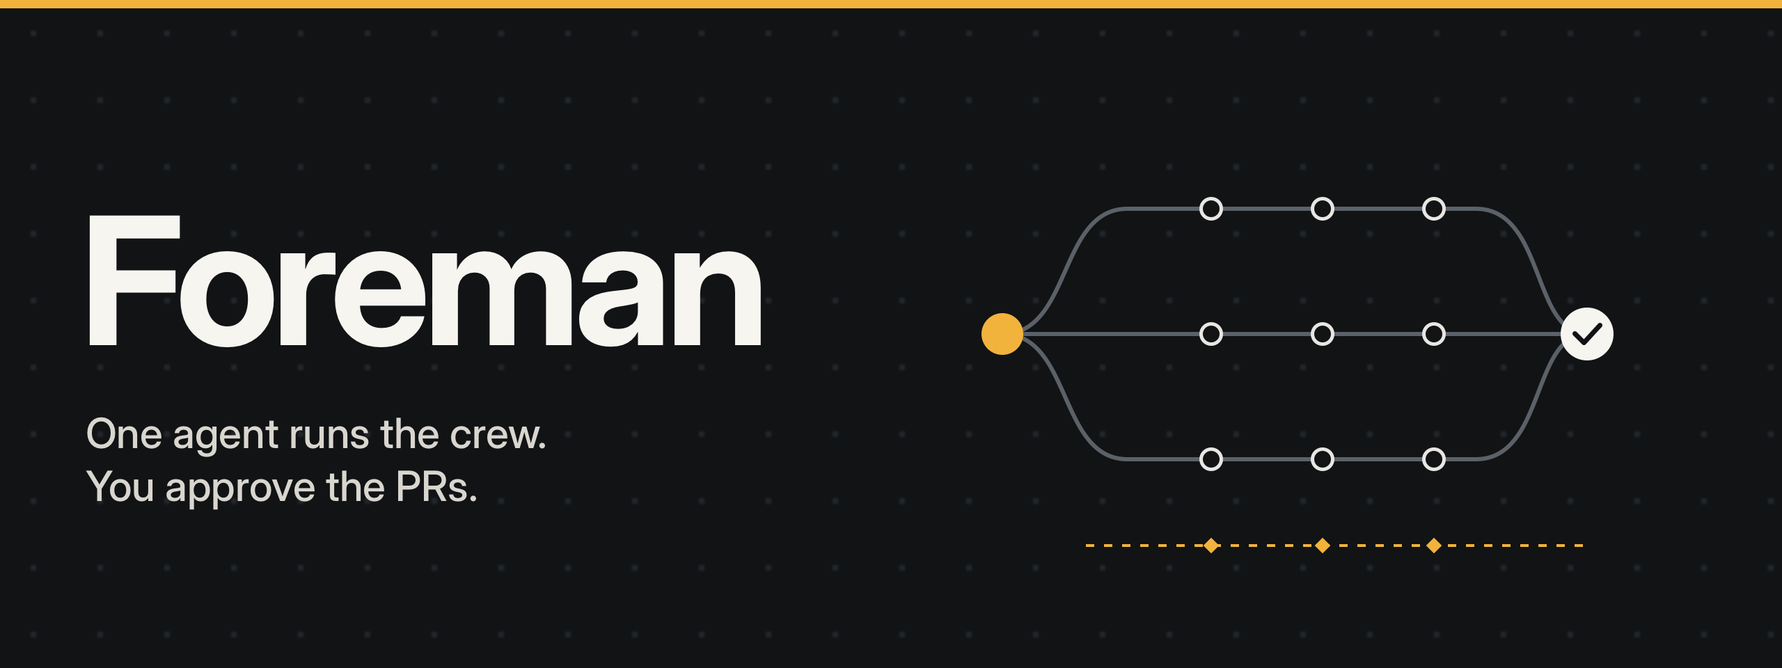
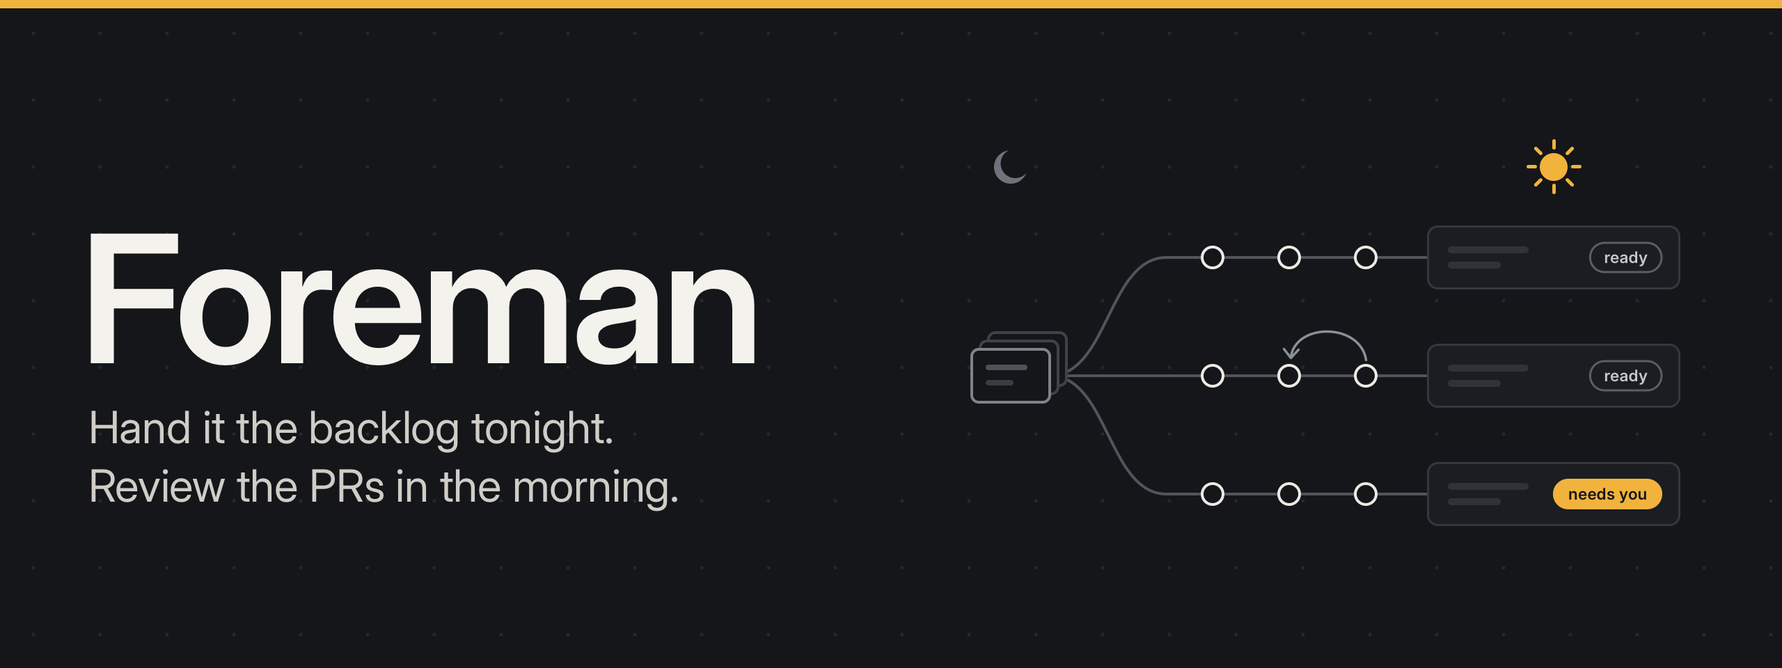
docs: rewrite README around unattended work and review (#98)

diff --git a/README.md b/README.md
@@ -5,88 +5,106 @@
     </picture>
 </p>
 
-## :sparkles: Features
+Hand it the backlog tonight. Review the PRs in the morning.
 
-- :robot: Spin up multiple Claude Code agents in parallel, reporting to the Foreman orchestrator
-- :zap: Blazingly fast, because each worker runs in its own worktree and tab
-- :policeman: Keeps every worker to your rules and puts you in ultimate control
-- :money_with_wings: Runs simple tasks on cheaper models
-- :zzz: Keeps working while you're away, and logs every call it makes
-- :books: Reads your repo's ADRs and keeps every worker to them
-- :camera: Takes before and after screenshots of web and macOS apps
-- :link: Tests the open PRs merged together, to catch ones that pass alone but break together
-- :memo: Runs your tests on the base branch first, and warns every worker about what already fails
-- :hammer_and_wrench: Builds, reviews and opens PRs by your own skills
-- :clipboard: Writes a summary of the PRs to review, in order
+<img alt="foreman overview" src="assets/README/foreman-overview.png">
+
+Wake up to PRs in review order, with test steps, risk ratings and a record of what still needs you.
+
+Foreman is a CLI and a Claude Code plugin whose orchestrator turns your backlog into a plan. It runs workers in their own git worktrees and sends their changes to a separate reviewer. You get PRs with a summary that tells you which to review first.
+
+```text
+Here's my backlog: BACKLOG.md. The deadline is tomorrow. Do it as cheaply as you can.
+```
 
 ## :firecracker: The problem
 
-You've got a backlog and a deadline. One Claude Code session processes one task at a time, and every task waits on you to review the last.
+Open five Claude Code sessions and you still have to review five PRs. Which one goes first? What did each worker assume? Do the changes work together? Congratulations - you've become the bottleneck.
 
-_Sure_, you could open five Claude Code sessions. But, then you're the one splitting up and assigning the work. Trying to ensure each session keeps out of the way of the other. Sharing "gotchas" and decisions between sessions. Checking every result and untangling the merge conflicts. **Congratulations - you've become the bottleneck**.
+## :sparkles: Features
 
-Foreman brings in the team and the manager to run it. You bring the direction and the control.
+### It runs while you're away
 
-## :construction_worker: What is Foreman?
+- :money_with_wings: Stops workers that exceed task or plan budgets.
+- :zzz: Restarts hung workers.
+- :repeat: Waits out usage limits, then resumes work.
+- :hourglass_flowing_sand: Makes routine decisions when you don't answer.
+- :speech_balloon: Pings you on Telegram when you choose.
 
-Foreman is a CLI and a Claude Code plugin. `foreman up` starts Claude Code with the plugin loaded, and that session runs the team:
+### The work arrives ready to review
 
-- **The engineers** are worker sessions, numbered W1, W2 and so on. Each gets its own git worktree and tab, so they work in parallel without stepping on each other
-- **The manager** is the orchestrator. It never writes code. It plans, hands out work, keeps everyone aligned and checks the work before it reaches you
-- **The leader** is you. You set the direction and approve every PR
+- :clipboard: Reviews each task and rates its risk before opening a PR.
+- :camera: Captures before and after screenshots of web and macOS apps.
+- :test_tube: Finds failing and flaky tests on the base branch.
+- :link: Tests open PRs together for conflicts and failing tests.
+- :memo: Lists PRs in review order, with test steps and assumptions.
 
-### How it works
+### It stays inside your rules
 
-<p align="center">
-    <picture>
-        <source media="(prefers-color-scheme: dark)" srcset="assets/how-it-works-dark.svg">
-        <img alt="How Foreman works: you hand over a backlog, Foreman briefs workers, a reviewer checks their work, approved work becomes a PR you merge, and merging starts the next tasks" src="assets/how-it-works-light.svg">
-    </picture>
-</p>
+- :policeman: Checks each change against your `never` list.
+- :lock: Blocks edit tools outside each task's owned paths.
+- :robot: Keeps planning with the orchestrator and coding with workers.
+- :books: Gives workers your ADRs and accepted decisions.
+- :hammer_and_wrench: Uses your skills to build, review and document work.
+- :raised_hand: Leaves merging to you unless you enable automerge.
 
-1. **Give it a backlog.** Foreman talks it through with you, then turns each item into a brief with clear boundaries and finished criteria
-2. **It schedules the crew.** Foreman decides what work runs in parallel and what goes first, based on dependencies and your deadline
-3. **Decisions are shared.** Workers propose decisions. Foreman accepts them and tells the rest of the crew, so conflicts surface before merge time
-4. **Work gets reviewed.** A separate reviewer task checks each change against your intent, with screenshots for UI work, and sends it back to the workers until it's right
-5. **You approve the PR.** Each PR says what was asked, which decisions it touched, what changed on screen and how risky it is. Tasks that build on it start without waiting for the merge
+[What Foreman guarantees](#what-foreman-guarantees)
 
-### What it touches
+## How is this different?
 
-- Workers run in Claude Code's auto mode, each in a worktree under `.foreman/worktrees/`, and commit to their own `foreman/<task>` branch
-- The reviewer task can only read files
-- The orchestrator and workers talk to Foreman through its MCP server, which never runs in your Claude Code sessions
-- Foreman pushes each approved task's branch and opens its PR
-- Foreman also makes PRs that adds accepted decisions to your ADR folder
-- Foreman never merges unless you turn on [automerge](#auto-merging-prs) and merges its own PRs
-- It keeps its state in `.foreman/`, out of git, and picks up from there after a restart
+| Approach | What YOU do | What Foreman does |
+| --- | --- | --- |
+| Several Claude Code sessions by hand | Assign the work, then review five unsorted PRs | The orchestrator plans the tasks. The summary puts their PRs in review order |
+| Sharing gotchas between sessions | Copy each workaround into every tab, then remember it for the next session | A worker records a gotcha once. Foreman tells running workers and adds it to new briefs |
+| Parallel sessions you supervise | Watch the tabs, notice stuck work and ask for fixes | Foreman detects hung workers. A separate reviewer sends changes back to the worker before a PR opens |
+| Agent teams inside one session | Collect the agents' changes and decide what to test and merge | Each task gets its own worktree and review. Its PR includes test steps, assumptions and a risk rating |
 
-### Why not Claude Code's agent teams?
+The reviewer can send work back for two revision rounds. If it still needs changes, the orchestrator asks you how to proceed.
 
-Agent teams are great for research and review inside one session. Foreman is built for unattended builds that end in PRs, so it needs things teams doesn't offer:
+## How Foreman works
 
-- Each worker gets its own worktree, so workers never share a checkout
-- Every task has its own budget, and a hung worker is spotted and restarted
+Workers commit to `foreman/<task>` branches in worktrees under `.foreman/worktrees/`. Foreman pushes approved task branches and opens their PRs. It also opens a separate PR to add accepted decisions to your ADR folder.
+
+Foreman keeps its state in `.foreman/`, outside git, so it can pick up after a restart. You merge the PRs unless you turn on [automerge](#auto-merging-prs).
+
+## What Foreman guarantees
+
+### Enforced in code
+
+- Worker edit tools are limited to owned paths and temp folders
+- Orchestrator edit tools are limited to Foreman's state, excluding worktrees
+- The reviewer is read-only and must approve before Foreman pushes or opens a task PR
+- Automerge follows the [merge rules](#auto-merging-prs)
+- While running, the watch task enforces budgets, restarts hung workers and handles usage limits
+- Cleanup refuses unmerged or uncommitted work unless told to discard it
+
+### Asked of the agents
+
+- The orchestrator never writes code. Its Bash writes are not checked
+- Workers stay within their brief and owned paths. Bash checks cannot catch every file a program writes, or pushes and merges hidden in scripts
+- Agents follow your `never` list and ADRs. The reviewer's verdict and risk rating depend on the model's judgment
+- Raising budgets, discarding work and permission to merge still need your say-so
 
 ## :package: Install
+
+Foreman runs on macOS in Ghostty, Orca, Herdr or Rex. You need:
+
+- Claude Code 2.1.331 or later
+- [GitHub CLI](https://cli.github.com/) signed in with `gh auth login`
 
 ```sh
 brew install olimorris/tap/foreman
 ```
 
-and upgrade with:
+To upgrade:
 
 ```sh
 brew upgrade foreman
 ```
 
-Foreman runs on macOS inside a terminal app. You also need:
+For web screenshots, install Playwright's Chromium with `bunx playwright install chromium`. For macOS screenshots, install Xcode and grant your terminal Screen Recording permission in System Settings > Privacy & Security > Screen & System Audio Recording.
 
-- Claude Code 2.1.332 or later
-- [GitHub CLI](https://cli.github.com/) signed in with `gh auth login`
-- For web screenshots: Playwright's Chromium (`bunx playwright install chromium`)
-- For macOS screenshots: Xcode, and Screen Recording permission for your terminal in System Settings > Privacy & Security > Screen & System Audio Recording
-
-`foreman doctor` checks that all dependencies are installed and can be accessed.
+Run `foreman doctor` to check dependencies, terminal support and screenshot setup.
 
 ### Uninstall
 
@@ -94,20 +112,22 @@ Foreman runs on macOS inside a terminal app. You also need:
 brew uninstall foreman
 ```
 
-To remove the command and the plugin. Foreman also leaves worktrees, branches and its `.foreman/` folder in each repo it ran in. Before you uninstall, run this in each of those repos:
+This removes the command and plugin. Worktrees, branches and the `.foreman/` folder remain in each repo where Foreman ran. To clean those up, run this in each repo before uninstalling:
 
 ```sh
 foreman remove
 ```
 
-It closes any worker tabs still open, then removes every task's worktree, the `.foreman/` folder, the local `foreman/*` branches and the `.foreman/` line Foreman added to `.git/info/exclude`. It won't run while the orchestrator is running for the repo. It also won't run while a task has unmerged commits or uncommitted files, and it names those tasks. Run `foreman remove --discard` to lose that work. Branches Foreman pushed and its PRs stay on GitHub, so close or delete those there.
+It closes any open worker tabs, then removes every task's worktree, the `.foreman/` folder, the local `foreman/*` branches and the `.foreman/` line Foreman added to `.git/info/exclude`.
+
+The command refuses to run while the repo's orchestrator is running or any task has unmerged commits or uncommitted files. It names the tasks with work to keep. Run `foreman remove --discard` to discard that work. Pushed branches and PRs stay on GitHub; close or delete them there.
 
 ### Working with an agent
 
 Paste this to your coding agent, so it can answer questions about Foreman and help you set it up:
 
 ```text
-Read https://raw.githubusercontent.com/olimorris/foreman/main/docs/agents.md and help me with Foreman.
+Read https://raw.githubusercontent.com/olimorris/foreman/main/docs/agents.md and help me with Foreman
 ```
 
 ## :rocket: Usage
@@ -118,15 +138,11 @@ In your repo, start Foreman with:
 foreman up
 ```
 
-If you've run it in this repo before, the orchestrator carries on its last conversation, so you can exit and come back without losing it. `foreman up --new` starts a new conversation instead.
+The orchestrator resumes its last conversation in this repo. Use `foreman up --new` to start a new one.
 
-Then tell it what you want done:
+Give the orchestrator your backlog and deadline. It will ask about choices that change the work and writes a plan. A plan with one task per backlog item, no cuts and no open decisions can start straight away. Otherwise, it waits for your approval. `foreman help` lists the commands.
 
-```text
-Here's my backlog: BACKLOG.md. The deadline is tomorrow. Do it as cheaply as you can.
-```
-
-Foreman asks about anything unclear, plans the work and opens a PR for each approved task. `foreman help` lists every command.
+Tasks with one unmerged dependency can start on top of its approved, open PR. Set `stackTasks` to `false` if you want them to wait for the merge.
 
 ### Status
 
@@ -144,7 +160,7 @@ foreman budget
 
 <img alt="foreman budget" src="assets/README/foreman-budget.png">
 
-Each task can spend $5 and the plan $40. When a task goes over, Foreman stops its worker and asks whether to raise the limit.
+The default budget is $5 per task and $40 for the plan. While the watch task runs, Foreman stops a worker that exceeds its task budget. Exceeding the plan budget stops all running workers. The orchestrator asks you before raising either limit.
 
 | Command | What it does |
 | --- | --- |
@@ -155,17 +171,17 @@ Each task can spend $5 and the plan $40. When a task goes over, Foreman stops it
 | `foreman budget reset` | Starts the plan's count again at $0 |
 | `foreman cost` | Splits spend into workers and reviews |
 
-The plan's spend counts its tasks and the orchestrator from when you approved it.
+The plan's spend includes its tasks and the orchestrator, counted from when you approved the plan.
 
-On a Pro, Max or other Claude subscription, these amounts measure work done at list prices, not what you pay. Your usage limit is what stops work. When you hit it, Foreman pauses every worker, starts nothing new and holds reviews until the limit resets. Then it picks each worker up where it left off. `foreman status` shows when the limit resets.
+On a Claude subscription, the budget tracks work at list prices rather than your subscription bill. Budget limits still apply. When the account hits its usage limit, Foreman pauses running workers and holds new tasks and reviews until the reset. It then resumes the paused workers. `foreman status` shows the reset time, or the next retry time if Foreman couldn't read it.
 
 ### Permissions
 
-Workers run in auto mode by default, so Claude Code _may_ refuse a call or wait at a permission prompt in a worker's tab. The same can happen to the reviewer and the orchestrator. The orchestrator tells you in one line, like:
+Workers run in Claude Code's auto mode. A permission refusal or prompt can still interrupt a run. The reviewer and orchestrator can also be blocked.
 
-> _"W2 on T5 was blocked from running `gh pr merge 41` by auto mode. To allow it, add `Bash(gh pr merge *)` in /permissions in that worker's tab, or tell me to skip it."_
+The orchestrator names the session, the blocked call and the permission rule to add. Use `/permissions` in that session's tab, or tell the orchestrator to skip the step. `foreman status` and the status pane show open blocks under "Needs you". A worker waiting at a permission prompt is not treated as hung.
 
-`foreman status` and the status pane list the task under "Needs you". Once you allow or skip it, the orchestrator tells the worker and the task moves back. A worker waiting at a prompt is never treated as hung, and answering the prompt in its tab clears it.
+Allowing `Bash(gh pr merge *)` cannot override Foreman's block on a worker's `gh pr merge 41` call. Use automerge or merge the PR yourself.
 
 ### Workers
 
@@ -173,7 +189,9 @@ Workers run in auto mode by default, so Claude Code _may_ refuse a call or wait 
 foreman workers 5
 ```
 
-Runs up to 5 workers at once until the current plan finishes. The next plan goes back to `maxWorkers` from [Configuration](#gear-configuration). Lowering it never stops a running worker, and new tasks wait until fewer are running. After raising it, ask the orchestrator to start the tasks that were waiting. `foreman workers` on its own shows the limit and where it comes from.
+This allows up to 5 workers for the current plan. The next plan uses `maxWorkers` from [Configuration](#gear-configuration).
+
+Lowering the limit lets running workers finish; new tasks wait until there's room. After raising it, ask the orchestrator to start the waiting tasks. `foreman workers` on its own shows the limit and where it comes from.
 
 ### Auto-merging PRs
 
@@ -181,9 +199,21 @@ Runs up to 5 workers at once until the current plan finishes. The next plan goes
 foreman automerge on
 ```
 
-Foreman merges each task's PR itself once the reviewer approves it and every check passes on GitHub. A PR with no checks merges once it's approved. When a check fails, Foreman doesn't merge and sends the worker to fix it. You can also tell the orchestrator _"feel free to merge"_.
+Automerge applies to the current plan. You can also tell the orchestrator "feel free to merge". Foreman merges approved task PRs when their GitHub checks allow it. Pending or failing checks hold the merge. The orchestrator sends failures back to the worker unless they also fail on the base branch.
 
-Foreman only merges its own task PRs, from `foreman/<task>` branches. Release PRs, the decisions PR and your own PRs stay with you. Your `never` list still applies. The reviewer won't approve a PR that a rule about merging covers, such as "Merge a PR that changes a migration", and switching automerge on lists those rules. A PR built on another task's branch waits until that task merges. Merges use squash when the repo allows it. `foreman automerge off` hands merging back to you, and `foreman status` shows when it's on.
+You need to merge these PRs yourself. The orchestrator flags each one once:
+
+- A PR with no checks, unless `automerge.allowNoChecks` is on
+- A PR the reviewer rated above `automerge.maxRisk`, which is low unless you change it. It shows under "Ready to merge" in `foreman status` and the status pane
+- A PR that changes a file matching `protect`. Workers can still edit those files
+
+`foreman automerge on` lists the risk limit and any protected paths. It also tells you when `allowNoChecks` is on.
+
+Foreman only merges its own task PRs, from `foreman/<task>` branches. Release PRs, the decisions PR and your own PRs stay with you.
+
+The reviewer is instructed to reject a PR covered by a `never` rule about merging, such as "Merge a PR that changes a migration". Switching automerge on lists those rules.
+
+A PR built on another task's branch waits until that task merges. Foreman uses squash merges when the repo allows them. `foreman automerge off` hands merging back to you, and `foreman status` shows when it's on.
 
 ### Summary
 
@@ -191,9 +221,7 @@ Foreman only merges its own task PRs, from `foreman/<task>` branches. Release PR
 foreman summary
 ```
 
-<img alt="foreman summary" src="assets/README/foreman-summary.png">
-
-What got done, the order to review the PRs in and how to test each one, what didn't get finished, and the calls Foreman made for you.
+This writes `.foreman/summary.md` and displays it. The summary lists PRs in review order, test steps and risk ratings. It also records unfinished work, open questions and decisions Foreman made for you.
 
 ### Timeline
 
@@ -203,7 +231,7 @@ foreman timeline
 
 <img alt="foreman timeline" src="assets/README/foreman-timeline.png">
 
-When each task started, when its worker went quiet, and which tasks waited on it.
+The timeline shows when each task started, when its worker went quiet and which tasks waited on it.
 
 ### Status pane
 
@@ -213,19 +241,42 @@ foreman pane
 
 <img alt="foreman pane" src="assets/README/foreman-pane.png">
 
-A status pane beside the orchestrator shows the run at a glance:
+A pane beside the orchestrator shows the run's status:
 
-- **Needs you**: questions waiting on you, tasks that are blocked or stopped, and sessions a permission has blocked
+- **Needs you**: unanswered questions, blocked or stopped tasks, and sessions waiting for permission
 - **Working**: what each worker is doing right now, and for how long
 - **Ready to merge**: PRs waiting for you, with the reviewer's risk
-- **Up next**: planned tasks that haven't started, in the order they'll start, each with what it waits on. In a short pane it shows the ones that fit and how many more there are
+- **Up next**: planned tasks in the order they'll start, with each task's dependencies. A short pane shows as many as fit and counts the rest
 - **Recent**: the last few things that happened
 
 A worker that goes quiet turns yellow, then red.
 
 ## :gear: Configuration
 
-Settings live in `.foreman/config.json` in your repo, and every one is optional. Here they are with their defaults, or an example where there's no default:
+### Skills
+
+Use skills for your coding rules, review checks and PR format. Save each skill as a `SKILL.md` file in one of these folders:
+
+| Where to use it | File |
+| --- | --- |
+| Every repo | `~/.config/foreman/skills/<name>/SKILL.md` |
+| This repo only | `.foreman/skills/<name>/SKILL.md` |
+
+If both folders have a skill with the same name, Foreman uses the repo's copy. These files stay out of git.
+
+Name a skill `pull-request` to set the PR title and description format. Use `adr` to set how decisions are written.
+
+You can copy Foreman's [pull-request skill](.claude/skills/pull-request/SKILL.md) and edit it:
+
+```sh
+mkdir -p .foreman/skills/pull-request && curl -fsSL https://raw.githubusercontent.com/olimorris/foreman/main/.claude/skills/pull-request/SKILL.md -o .foreman/skills/pull-request/SKILL.md
+```
+
+New workers pick up skills added during a run. Each review reads your skills again.
+
+### Settings
+
+All settings in your repo's `.foreman/config.json` are optional. The values below are defaults, or examples where no default exists:
 
 ```json
 {
@@ -242,6 +293,8 @@ Settings live in `.foreman/config.json` in your repo, and every one is optional.
   "screenshots": { "adapter": "web", "start": "npm run dev -- --port {port}", "url": "http://localhost:{port}" },
   "prScreenshots": "local",
   "never": ["Merge a release PR. I cut every release."],
+  "automerge": { "allowNoChecks": false, "maxRisk": "low" },
+  "protect": ["migrations/**", ".github/**"],
   "telegram": { "when": "only when a question has waited 10 minutes, or the run is finished" }
 }
 ```
@@ -250,40 +303,24 @@ Settings live in `.foreman/config.json` in your repo, and every one is optional.
 | --- | --- |
 | `maxWorkers` | How many workers run at once. See [Workers](#workers) |
 | `budget` | Spend limits in dollars: `perTask` for every task, `plan` for the whole plan and `tasks` for one task. `foreman budget` sets these for you |
-| `orchestratorModel` | The model `foreman up` starts the orchestrator on, as an alias or a full model id. `foreman up --model <name>` overrides it for one run. Without it, the orchestrator uses Claude Code's default |
-| `workerModel` | The model for tasks the plan doesn't give one, as an alias like `"sonnet"` or a full model id. Without it, workers use Claude Code's default |
-| `reviewerModel` | The model the reviewer runs on. Without it, the reviewer uses Claude Code's default |
+| `orchestratorModel` | Orchestrator model alias or full model ID. `foreman up --model <name>` overrides it for one run. `foreman up` uses Claude Code's default when neither is set |
+| `workerModel` | Model for tasks with no model in the plan. Accepts an alias like `"sonnet"` or a full model ID. Falls back to Claude Code's default |
+| `reviewerModel` | Reviewer model. Falls back to Claude Code's default |
 | `stackTasks` | `false` makes a task wait for its dependency to merge, instead of starting on top of its approved PR |
-| `answerMinutes` | How long Foreman waits for your answer before it makes its own call. `0` makes it always wait |
-| `stallMinutes` | How long a worker can go without replying, with no CPU use, before Foreman nudges it. It restarts the worker at twice this |
-| `test` | The command that runs your tests in a fresh checkout, so include any setup. Foreman works it out if it's missing |
+| `answerMinutes` | Minutes before the orchestrator can act on its stated decision for a recorded question. Defaults to 30. `0` makes it wait. Questions about money, lost work or permission to merge always wait for you |
+| `stallMinutes` | Minutes without a reply or CPU activity before Foreman nudges a worker. Defaults to 20. It restarts at twice this idle time, or four times this without a reply even if commands use CPU. After two restarts, another hang goes to the orchestrator |
+| `test` | Test command for the baseline and together checks. Include setup for a fresh checkout. The orchestrator works it out from the repo if it's missing |
 | `testMinutes` | How long one test run can take before Foreman stops it as hung |
 | `screenshots` | How to run your app for before and after screenshots |
 | `prScreenshots` | `"local"` lists screenshot paths in the PR. `"branch"` pushes them to a `foreman-screenshots` branch so they show on GitHub |
 | `never` | Things Foreman must never do in this repo, one plain sentence each. The orchestrator sees the list when it starts, every brief lists it and the reviewer treats a change that breaks one as an issue |
-| `telegram` | Turns on pings through Claude Code's Telegram plugin. `when` says in your own words when the orchestrator should ping you. [docs/agents.md](docs/agents.md) covers setting up the plugin |
+| `automerge.allowNoChecks` | `true` lets automerge merge an approved PR that has no checks, for repos with no CI. Off by default, so such a PR stays with you |
+| `automerge.maxRisk` | Highest reviewer risk rating automerge accepts: `"low"`, `"medium"` or `"high"`. Defaults to `"low"`. Unknown values count as `"low"` |
+| `protect` | File globs excluded from automerge, such as `migrations/**`. No default. Workers can edit them, but you merge those PRs |
+| `telegram` | Enables pings through Claude Code's Telegram plugin after you install and pair it. `when` tells the orchestrator when to ping you. Without `when`, it pings for questions and a finished run. See [setup instructions](docs/agents.md) |
 
 For a macOS app, `screenshots` builds the app instead of starting a server:
 
 ```json
 { "screenshots": { "adapter": "macos", "build": "xcodebuild -scheme App -derivedDataPath {derivedData} build", "app": "{derivedData}/Build/Products/Debug/App.app" } }
 ```
-
-## :hammer_and_wrench: Your own skills
-
-Skills change how Foreman works. Use them to set how workers build, what the reviewer checks, how PRs are written and how decisions are recorded.
-
-Put a skill in `~/.config/foreman/skills/<name>/SKILL.md` to use it in every repo, or in `.foreman/skills/<name>/SKILL.md` for one repo. The repo's wins when both have the same name. Both stay out of git.
-
-Two names have a set job:
-
-- `pull-request` shapes the PRs Foreman opens
-- `adr` shapes the decisions it records
-
-To start from Foreman's own [pull-request skill](.claude/skills/pull-request/SKILL.md):
-
-```sh
-mkdir -p .foreman/skills/pull-request && curl -fsSL https://raw.githubusercontent.com/olimorris/foreman/main/.claude/skills/pull-request/SKILL.md -o .foreman/skills/pull-request/SKILL.md
-```
-
-A skill you add mid-run reaches workers started after it.
